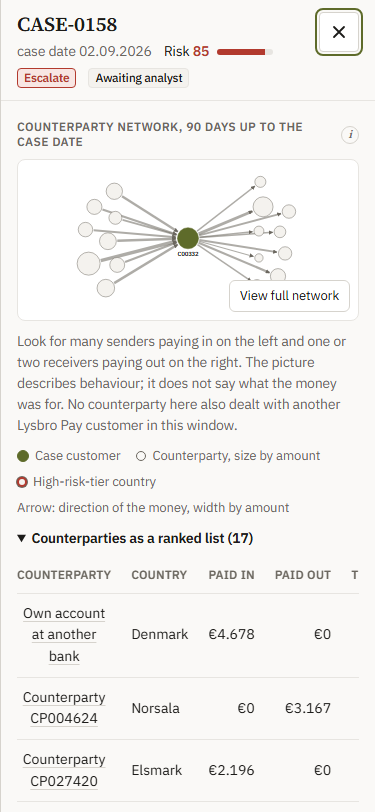
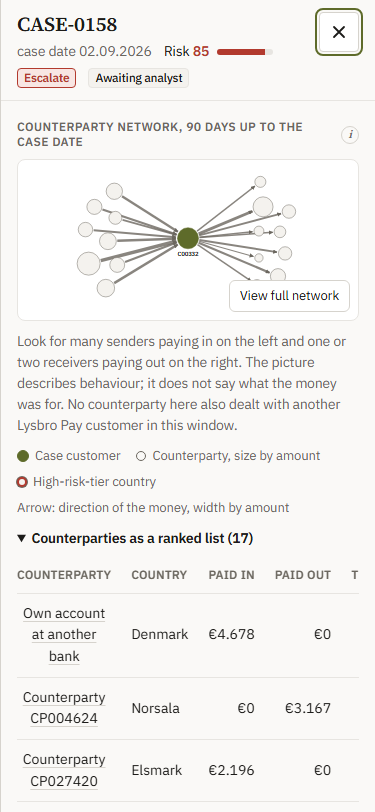
P3 redesign round 3 and docs: network in How this works and explain.md, design rules in CLAUDE.md, decisions log, compare images

Changed region(s): [[0.264, 0.2463, 0.4693, 0.3387], [0.528, 0.2463, 0.6747, 0.3387]]

diff --git a/web/app/globals.css b/web/app/globals.css
@@ -169,8 +169,8 @@ tr.picked td { background: var(--accent-soft); }
 @keyframes net-in { from { opacity: 0; transform: scale(0.97); } }
 .side-label { position: absolute; top: 10px; font-size: 0.72rem; font-weight: 600; letter-spacing: 0.06em; text-transform: uppercase; color: var(--muted); pointer-events: none; }
 .side-label.left { left: 14px; } .side-label.right { right: 14px; }
-.edge { stroke: var(--muted); stroke-opacity: 0.55; fill: none; transition: stroke-opacity 150ms ease, stroke 150ms ease; cursor: pointer; }
-.edge.dim { stroke-opacity: 0.15; }
+.edge { stroke: var(--muted); stroke-opacity: 0.8; fill: none; transition: stroke-opacity 150ms ease, stroke 150ms ease; cursor: pointer; }
+.edge.dim { stroke-opacity: 0.2; }
 .edge.hl { stroke: var(--accent); stroke-opacity: 1; }
 .edge-hit { stroke: transparent; fill: none; cursor: pointer; }
 .node { cursor: pointer; outline: none; }
@@ -182,7 +182,9 @@ tr.picked td { background: var(--accent-soft); }
 .node circle.focus { fill: none; stroke: var(--accent); stroke-width: 2; opacity: 0; transition: opacity 150ms ease; }
 .node:hover circle.focus, .node:focus-visible circle.focus, .node.hl circle.focus { opacity: 1; }
 .node.dim { opacity: 0.35; }
-.node text { font-size: 11px; fill: var(--muted); pointer-events: none; font-variant-numeric: tabular-nums; }
+/* Labels get an outline in the box colour, so an arrow passing behind never cuts through the figures. */
+.node text { font-size: 11px; fill: var(--muted); pointer-events: none; font-variant-numeric: tabular-nums;
+  paint-order: stroke; stroke: var(--surface); stroke-width: 4px; stroke-linejoin: round; }
 .node.case text { fill: var(--text); font-weight: 600; font-size: 12px; }
 @media (max-width: 599px) { .node text.amt { display: none; } .side-label { display: none; } }
 .nettip { position: absolute; z-index: 3; pointer-events: none; transform: translate(-50%, calc(-100% - 12px)); min-width: 170px;

diff --git a/web/components/Network.tsx b/web/components/Network.tsx
@@ -82,7 +82,7 @@ function build(caseId: string) {
   box.w = Math.max(...xs, 320) + pad - box.x;
   box.h = Math.max(Math.max(...ys) + pad - box.y, 260);
   const ranked = all.filter((n) => n.kind === "cp" || n.kind === "others").sort((a, b) => total(b) - total(a));
-  const labelled = new Set(ranked.filter((n) => n.kind === "cp").slice(0, 5).map((n) => n.id));
+  const labelled = new Set(ranked.filter((n) => n.kind === "cp").slice(0, 5).filter((n) => n.r >= 10).map((n) => n.id));
   return { nodes: all, edges, box, ranked, labelled, total };
 }
 

diff --git a/docs/decisions.md b/docs/decisions.md
@@ -85,3 +85,55 @@ No change to the generator, seed, data, `config/rules.yaml`, rule SQL, the promp
 - B3: Vercel CLI 65.11.0 (via npx), scope senor-robot: `project add aml-queue`, root directory `web` and framework `nextjs` set through `vercel api`, `vercel link`, `vercel git connect`, production branch `main`. Git Bash rewrote the API path into a Windows path on the first attempt, so the settings call silently did nothing; rerun with `MSYS_NO_PATHCONV=1` and checked. `vercel link` added `.vercel` and `.env*` to `.gitignore` again; the duplicate lines were reverted (both were already covered). Domain `lysbro-aml.vercel.app` added (first choice, available). Other projects in the team were not touched.
 - B4: `metadataBase` and og:url already used https://lysbro-aml.vercel.app (the placeholder was the chosen name). Live link added to the README, the repo website and `private/pitch.md`. The production deploy is triggered by this push to `main`.
 - B5: waited 2 minutes, then followed the deploy through the Vercel API (not the site) until production was READY for commit c384753, then ran the live check once: 34 of 35 checks pass. The one failure was the test's own 404 probe (`/no-such-page/`), which the browser logs as a console error; no other console errors. The script now ignores that expected 404. Not rerun against the live site, to avoid Vercel's bot protection. Passed: page loads, "(fictional)" on every page including 404, four KPIs with "AI suggests escalation" 16 of 26 for Sep 2026, queue sorted by risk, CASE-0158 opens with its summary and "AI suggestion only. An analyst decides.", Rule performance with the 2x2 table, the trade-off line and the customers column, How this works, no horizontal scroll at 375 px, og:image and og:url absolute, the image returns 200. Live screenshots in `docs/screenshots/live/`.
+
+## Design P3 bold (06.11.2026, brief `../prompts/design-p3-bold.md`)
+
+Unattended run. No change to the generator, seed, data, `config/rules.yaml`, rule SQL (files 01-16), the prompt, `data/ai/` outputs, `check_summaries.py`, `evaluate.py` or expected data values. No API calls. `docs/decisions.md` had no uncommitted edits at the start (working tree clean), so there was nothing to commit first.
+
+**How the design was decided (impeccable skill).** Mode: Operate (an analyst works a queue), so scanability and familiar patterns come before expression, and the build is code-led (no image comps). The brief pins the visual world (the portfolio kit from P2, an olive or umber accent, no blue or violet, no effects), so this counts as an established world being extended: no direction roll, no new identity, no DESIGN.md; the kit README, `tokens.css` and the Design section in `CLAUDE.md` are the record. The skill's interview step was replaced by the brief and `CLAUDE.md`, because the brief says to ask no questions; no PRODUCT.md was written. Rules that shaped the result:
+- "Light or dark picked from the use scene, not the category" (craft floor): see below.
+- "Restrained colour; the accent only for primary actions, selection and state" (Operate): olive marks the case customer, the selected row, truly suspicious bars and focus; nothing decorative.
+- "No hero-metric template, no eyebrow above a heading, no same-size icon cards" (craft floor): the key figures are a hairline-split band on the page background, not four cards, with big serif numbers.
+- "Prove, don't claim; demonstration data is design material": the bold element is the network drawn from the real case data, and the false-positive story is told with the files' own numbers.
+- "Every interactive state; browser surfaces themed" (craft floor): hover, selected, focus and empty states in the queue; text selection, scrollbar colour and checkbox in the palette.
+- "Motion 150-250 ms, conveys state, no orchestrated page load" (Operate): the drawer slides in once (220 ms), tabs fade (200 ms), the network appears once (250 ms); numbers never animate.
+- "Overlays escape their container": popovers use the kit InfoTip (a bottom sheet on a phone).
+- The mechanical detector (`impeccable detect`) on `web/app`, `web/components` and `web/styles`: no findings.
+- Not done from the skill: the separate finish-reviewer and documenter subagents. The brief caps the work at three build, screenshot and critique rounds; a fresh reviewer would have opened a fourth. Each round's critique was done in this session against the brief and the craft floor instead.
+
+**Light first, dark behind the toggle.** The scene: an AML analyst at a desk in an office, reading AI summaries and transaction tables for hours, and a hiring manager opening a link in the daytime. Long reading in daylight favours a light page; picking dark because "analyst console" sounds technical is the category default the skill warns against. It also keeps the three projects one family. Without a saved choice the page follows the system setting (as before), so a laptop set to dark gets dark.
+
+**Accent: deep olive.** Light `#5E6B2A` (5,5:1 on the page, 5,8:1 on cards, 5,2:1 on `--surface-2`, white text on it 5,8:1), dark `#A9B86A` (8,6:1 on the page, 8,0:1 on cards). Soft backgrounds `#EEF0E2` and `#262A1A` (accent text 5,0:1 and 6,8:1). Umber `#6B4E31` was tested (7,2:1, also fine) but rejected: its hue sits between the warning amber and the risk red, so the case customer in umber next to red high-tier rings would read as another warning. Olive is clear of the red, of the semantic green `#2E7D57` (blue-green, not yellow-green; green is barely used in P3) and of P2's ink blue. Graph marks: node outlines 5,6:1 and 6,5:1, arrows at 80 % opacity 3,7:1 and 4,6:1, red rings 5,9:1 and 5,5:1, all above 3:1.
+
+**Kit copied, not linked.** `web/styles/tokens.css` (only the accent block changed), `web/styles/kit.css`, `web/components/kit/InfoTip.tsx` and the kit README, plus Tailwind 4.3.3 as the kit README says (used for its reset and the token mapping; P3's own styles stay plain CSS classes in `globals.css`, which are easier to read). Fonts changed from Inter to the kit's Source Serif 4 and IBM Plex Sans. One deviation in the copied InfoTip: Esc calls `preventDefault()`, so inside the drill-down (a native dialog) Esc closes only the popover, not the case. Other kit components (Card, KpiCard, Sparkline) were not copied: P3 does not use them.
+
+**Counterparty network.**
+- SQL view `sql/17_v_case_network.sql`, one row per edge (case, customer, counterparty node, direction) with count, amount, first and last date. Window: the 90 days up to and including the case date. Exported as `web/data/case_network.json` (1.831 rows) by `build_db.py`.
+- Cap: 25 counterparty nodes per case by total amount, the rest grouped as "OTHERS" ("+N others"). 10 of 183 cases exceed 25. Logged in `docs/assumptions.md` as a display assumption.
+- Finding: every counterparty in the raw data belongs to exactly one customer (22.006 counterparties, each with one customer). So the "links to other customers" part of the view returns nothing for every case. Not fixed by changing the generator (not allowed); the view keeps the logic, the caption says "No counterparty here also dealt with another Lysbro Pay customer in this window", and How this works, `explain.md` and the README say so.
+- Test `tests/test_case_network.py` (added to `run_all.py`): no edge outside the 90 days up to the case date; the case customer's edges add up to their own transfers in the window (count and amount, per direction); at most 25 nodes; the SQL and the exported fields never mention the answer key. The existing truth-access test also scans the new SQL file. 4 of 4 pass.
+- Drawing: d3-force 3.0.0 directly (about 15 KB), not a React wrapper: one small library, and the layout is computed once. 300 ticks run before the first paint with a fixed random seed, so the picture is the same every time and never moves; it fades in once (250 ms), directly under reduced motion. Senders who only pay in are pulled left and receivers who only get paid right (`forceX`), so fan-in and pass-through read left to right, labelled "Paid in" and "Paid out". Node area by total amount, arrow width by amount per direction, case customer in olive, red ring for high-risk-tier countries, amount labels for the five largest counterparties. The network and its data load only when a case opens (`next/dynamic`).
+- Interaction: hover, tap or Tab to a node shows the amount in and out and the number of transfers; Enter or click selects it and highlights its arrows; clicking an arrow selects that direction. Clicking a dot in the timeline or a date in the triggering-transactions table highlights the counterparty's arrow (or the "+N others" node), and the network selection rings that counterparty's dots in the timeline and marks its rows.
+- At 375 px: the network at reduced size (amount labels hidden) with a "View full network" toggle that shows it at 760 px in a sideways scroll inside its box, and the ranked list of counterparties open by default. The ranked list (folded on desktop) is the keyboard and screen-reader route to the same figures.
+- One caption under it: "Look for many senders paying in on the left and one or two receivers paying out on the right. The picture describes behaviour; it does not say what the money was for."
+
+**Other layout choices.**
+- Key figures: four columns split by hairlines, numbers in 2,6 rem serif. "AI suggests escalation 16 of 26" stays first (it answers both "how big is the queue" and "what would the AI look at first"); rule precision 18,6 % carries a thin bar (34 of 183) for "most alerts are false positives".
+- Queue: dense table, hover in `--surface-2`, the last opened case stays marked in `--accent-soft` (selected state), risk bar grey below 60 and red from 60. At 375 px the Amount, Customer and Status columns are hidden so the AI suggestion fits without sideways scrolling; all three are in the drill-down (status in its header). Customer and Status were already hidden on a phone before.
+- Drill-down order: "AI suggestion only. An analyst decides.", network, timeline (next to it, so the linking is visible), then AI draft beside profile and declared vs actual, rules hit, triggering transactions. Width 1.040 px on desktop.
+- Rule performance: the Recharts bar chart is replaced by plain HTML bars (one per rule, length by cases, split truly suspicious and false positive, precision beside it); the 2x2 table keeps its numbers and adds "found", "missed, the costly error", "extra reviews", "correctly closed" (the costly-error cell is not red: red is only for risk and escalate); the trade-off line keeps its exact text and gets two bars (100 of 183 reviewed, 30 of 34 found). Every number is read from `web/data/`.
+
+**Selectors kept** (used by `tests/qa_edge.mjs` and `tests/redesign_shots.mjs`): `h1` (contains "(fictional)"), `.notice`, `.kpi` (four, the first "AI suggests escalation"), the (i) buttons (now `.info-btn`), `#month`, `button[aria-label="Switch light or dark theme"]`, `.tab`, `#tab-queue`, `#tab-rules`, `.filters select` (the second is AI suggestion), `tbody tr.row`, `.rowbtn`, `.score`, `.badge`, `.badge-status` ("Awaiting analyst"), `dialog.drill`, `.recharts-symbols` (now on the custom timeline dots), `.t22`, `#trade-off`, `th` "Customers (planted)", `footer`. New: `.network`, `.netbox`, `.node[tabindex="0"]`, `.edge.hl`, `.nettip`, `details.cplist`, `.linkbtn`.
+
+**QA script changes** (`tests/qa_edge.mjs`). One expected value changed: the dark page background is now `rgb(20, 20, 18)` (`--bg` `#141412` from the kit) instead of `rgb(11, 17, 32)`; it is a colour, not a measured number. Added: the network renders with focusable nodes, the ranked list is present, clicking a triggering transaction highlights its edge, a focused node shows its amounts, Enter selects a node, reduced motion removes the drawer and network animations. The Open Graph image is now the CASE-0158 drill-down with its network, laid out at 1.600 x 840 and scaled to 1.200 x 630 so the page header with "(fictional)" stays visible, without focus ring or scrollbar.
+
+**Loop rounds.**
+1. First build: the sticky table header hid the first queue row in captures (removed), the rule table cut off its last column (headers may now wrap), the 375 px drill-down overflowed because grid children lacked `min-width: 0`, the network was too small on a phone ("View full network" toggle, scroll margin under the sticky header).
+2. At 375 px the case ids wrapped and the AI suggestion column was off screen: risk bar hidden on a phone, Amount column hidden, ids kept on one line.
+3. A small node's label collided with an arrow and the arrows were under 3:1 in dark: labels get an outline in the box colour, only nodes with radius 10 or more are labelled, arrow opacity 0,55 to 0,8. Stopped here: the next round would be polish.
+
+**Results.** `run_all.py`: all reconciliation, rule-layer (8 of 8), AI-draft, evaluation, truth-access (6 of 6) and network (4 of 4) checks pass; every exported file is byte-identical to before except `meta.json` (`built_at` timestamp only) and the new `case_network.json`. `npm test` 1 of 1, lint 0 errors (one warning in the copied `postcss.config.mjs`), `npm run build` from `web/` alone works. Headless Edge: 40 of 40 checks pass (34 old with one updated colour, 6 new). `npm audit`: 8 moderate findings, all `minimatch` inside the ESLint tooling, not shipped to the browser; not changed.
+
+**Bundle** (JS in `web/out/_next/static/chunks`, gzip). Before: 438 KB, all loaded by the queue page (most of it is the case and transaction JSON). After: the queue page loads 434 KB (Recharts left the rule tab); the network chunk (d3-force plus 1.831 network rows) adds 32 KB and loads only when a case opens. Total 466 KB. Raw: 2,18 MB before; 2,16 MB first load and 2,60 MB in total after.
+
+**Screenshots.** `tests/redesign_shots.mjs before|after|compare` writes `docs/screenshots/redesign/`: before and after for desktop light and dark, 375 px, the CASE-0158 drill-down and Rule performance; after only for the CASE-0158 network at desktop and 375 px and the CASE-0173 network in dark (red rings); `compare-*.png` side by side.

diff --git a/docs/explain.md b/docs/explain.md
@@ -72,9 +72,23 @@ Why a weighted sum: it is transparent, each part can be shown in the drill-down 
 
 ## 6. The charts
 
-- **Drill-down timeline** (`web/components/Timeline.tsx`): one dot per transaction from 90 days before the first alert to the case date; money in above zero, out below; triggering transactions in blue. It answers "is this new for this customer?" at a glance.
-- **Cases per rule** (`web/components/RulePerformance.tsx`): horizontal stacked bars, truly suspicious (blue) and false positive (grey) per rule. It tells the false-positive story: R4 and R5 make most of the noise.
+- **Counterparty network** (`web/components/Network.tsx`, data from `sql/17_v_case_network.sql`): the first thing in every drill-down. See section 6a.
+- **Drill-down timeline** (`web/components/Timeline.tsx`): one dot per transaction from 90 days before the first alert to the case date; money in above zero, out below; triggering transactions filled in the olive accent, others hollow. It answers "is this new for this customer?" at a glance. Clicking a dot highlights that counterparty in the network.
+- **Precision per rule** (`web/components/RulePerformance.tsx`): one bar per rule, as long as its number of cases, split into truly suspicious (olive) and false positive (grey), with the precision beside it. It tells the false-positive story: R4 and R5 make most of the noise.
+- **Trade-off bars**: 100 of 183 cases reviewed, 30 of 34 truly suspicious cases found, as two bars under the 2x2 table.
 - **2x2 table**: AI suggestion vs truth. A table, not a chart, because four numbers are read more precisely as numbers.
+
+## 6a. The counterparty network (`sql/17_v_case_network.sql`)
+
+**What it shows.** The case customer in the middle (olive), and everyone they sent money to or received money from. Senders who only pay in are pulled to the left, receivers who only get paid to the right, and counterparties that do both sit in between. So fan-in (many senders into one account) and pass-through (money in from many, out again to one or two) read from left to right. Node size is the total amount, arrow width the amount in that direction, a red ring a counterparty in a high-risk-tier invented country. Hover, tap or Tab to a node for the amounts in and out and the number of transfers; a ranked list below the picture holds the same figures for keyboard and phone users.
+
+**Window.** The 90 days up to and including the case date (the date of the last alert in the case). Nothing after the case date. `tests/test_case_network.py` checks that every edge lies in the window, that the edges add up to the customer's own transfers in it, the cap, and that the view and its export never refer to the answer key.
+
+**The cap.** At most 25 counterparty nodes per case, the largest by total amount; the rest are grouped into one "+N others" node. 10 of the 183 cases have more than 25 counterparties. Larger graphs turn into a hairball that no one can read.
+
+**Links to other customers.** The view also looks for other Lysbro Pay customers who dealt with the same counterparties in the same window. In this synthetic data there are none: the generator gave every counterparty to exactly one customer. The SQL and the drawing handle such links, but the data has nothing to show, and the caption says so.
+
+**Layout.** d3-force (a small library, about 15 KB), run to the end before the first paint, with a fixed random seed: the same case always gets the same picture and nothing floats. The picture appears with one short fade (250 ms), or directly when the visitor prefers reduced motion.
 
 ## 7. The AI part
 
@@ -84,7 +98,7 @@ Why a weighted sum: it is transparent, each part can be shown in the drill-down 
 - **Checks** (`check_summaries.py`): numbers within the rounding shown, no date after the case date, fields, length, banned words. Result: 134 of 183 first attempt, 178 of 183 final. The 5 failures are 101-103 words.
 - **Cost**: worst case estimated at USD 0,78 before calling; actual USD 0,15 (complete run), about USD 0,16 in total.
 
-## 8. Twelve interview questions, with honest answers
+## 8. Thirteen interview questions, with honest answers
 
 **1. Why is precision so low, and is that bad?**
 18,6 % means about four in five cases were not suspicious. In transaction monitoring that is normal: rules are set to catch most real cases, so they also catch ordinary behaviour that looks similar (a car purchase looks like a volume spike). Low precision is a cost (analyst time), not a failure, as long as recall is high. The useful question is where the false positives come from: here R4 (70 of 97 cases false) and R5 (58 of 64). Those are the rules to tune first.
@@ -121,6 +135,9 @@ USD 0,15 for 183 drafts with a small model, about USD 0,0008 per case. At 10.000
 
 **12. What would you build next?**
 A threshold slider showing how precision and recall move, analyst decisions in the queue with a feedback loop, a network view to find shared senders across mule accounts, and an analyst review of a sample of AI drafts to measure quality beyond agreement with the answer key.
+
+**13. Why a network view, and what can it not show?**
+Mule activity, fan-in and pass-through are patterns between accounts, not inside one account, and a table of 25 transfers hides that shape. The network shows it in one look: many arrows in on the left, one or two out on the right. What it cannot show: why the money moved (a family collecting for a wedding looks like fan-in), anything outside the 90 days or after the case date, accounts at other banks beyond a counterparty id, and here, links between customers, because the synthetic data has no shared counterparties. It describes behaviour; the analyst decides what it means.
 
 ## 9. Five things to look at first
 

diff --git a/CLAUDE.md b/CLAUDE.md
@@ -22,13 +22,21 @@ Knut is an economics master's student who builds finance tools with AI. He is no
 - **API key** is read from `PORTFOLIO_ANTHROPIC_KEY`. Never print, write or commit it. Spend cap for this project: USD 2,00.
 - **Git:** commit with the GitHub noreply address only. Do not push, add a remote or deploy without Knut asking.
 
+## Design
+
+- One family with P1 and P2: tokens in `web/styles/tokens.css`, base styles in `web/styles/kit.css`, the shared (i) popover in `web/components/kit/` (copied from `../startup-runway`, see `web/components/kit/README.md`). Page styles in `web/app/globals.css` use the tokens, never raw hex values.
+- P3 accent: deep olive, `#5E6B2A` light and `#A9B86A` dark. Light theme by default (or the system setting), dark behind the toggle. Source Serif 4 for headings and big numbers, IBM Plex Sans for text, tabular figures.
+- Bold only through structure, scale and real data (the counterparty network, the precision bars, the 2x2 matrix). No bright UI blue, indigo, violet or purple, no decorative gradients, glass, glow, neon, emoji, sparkle icons or marketing phrases. Red only for high risk, "Escalate" and high-risk-tier countries.
+- Motion 150 to 250 ms on hover, focus, tabs and opening a case; none on numbers; respect prefers-reduced-motion. Explanations in (i) popovers; at most one caption per card.
+- Keep the selectors that `tests/qa_edge.mjs` and `tests/redesign_shots.mjs` use (listed in `docs/decisions.md`, "Design P3 bold").
+
 ## Ask first
 
 Before anything that costs money beyond the cap, needs a login, publishes anything, deletes data, or changes what is measured.
 
 ## Pipeline
 
-See README.md ("How to run"). `scripts/run_all.py` runs everything except the AI calls.
+See README.md ("How to run"). `scripts/run_all.py` runs everything except the AI calls. UI checks: `node tests/qa_edge.mjs` after `npm run build` in `web/`.
 
 ## Where the details are
 

diff --git a/README.md b/README.md
@@ -74,12 +74,13 @@ If an analyst reviewed only the cases the AI suggests escalating: 100 of 183 cas
 - The fairness check covers name origin only, on 25 to 90 cases per group. It is reported, not tested statistically. The planted customers match everyone else's name-origin mix within 1,6 points.
 - Thresholds and risk weights are own assumptions. 183 cases is fewer than planned; the thresholds were not loosened to reach more.
 - No analyst decisions exist. The queue shows suggestions only, and precision and recall come from an answer key. No time saving is claimed.
+- The counterparty network shows one customer and their counterparties (90 days up to the case date, at most 25 nodes). Every counterparty in the synthetic data belongs to one customer, so no links between customers appear.
 
 ## Next version
 
 - A threshold slider per rule for rule tuning, tested on one period and checked on another.
 - An analyst feedback loop: decisions in the queue, and precision measured from them.
-- A network view of counterparties, to link accounts that share senders or recipients.
+- Linking customers through shared counterparties in data that has them (the network view supports it; this synthetic data has none).
 
 ## How to run
 

diff --git a/docs/assumptions.md b/docs/assumptions.md
@@ -51,3 +51,10 @@ The weights reflect a judgement that moving money through an account quickly (R2
 - Model: `claude-haiku-5-5` (cheap, good enough for short structured summaries), effort `low`.
 - Spend cap: USD 2,00 for this project; the run aborts if the worst-case estimate (3 attempts for every case) is above it.
 - Price used for the estimate and the spend log: USD 0,10 per million input tokens, USD 0,50 per million output tokens (Anthropic list price for Claude Haiku 5.5, prompts under 100.000 tokens).
+
+## Counterparty network (display only)
+
+These shape a picture, not a rule or a score; changing them changes no case, alert or metric.
+
+- Window: the 90 days up to and including the case date, the same length as the baseline window used elsewhere. Own assumption.
+- Cap: 25 counterparty nodes per case, the largest by total amount; the rest are grouped as "+N others". Own assumption, chosen for readability (10 of 183 cases exceed it).
